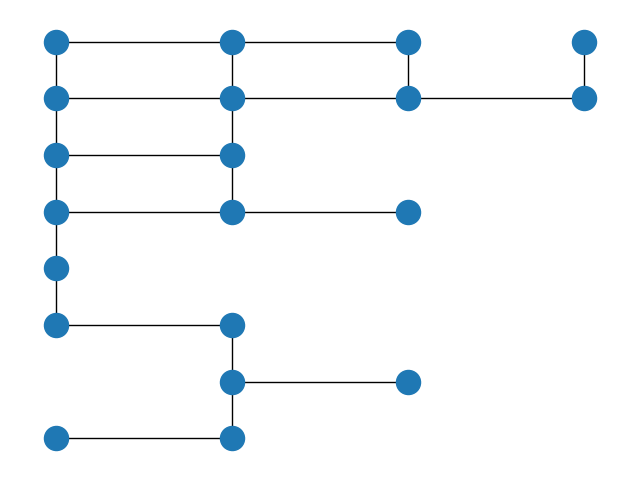
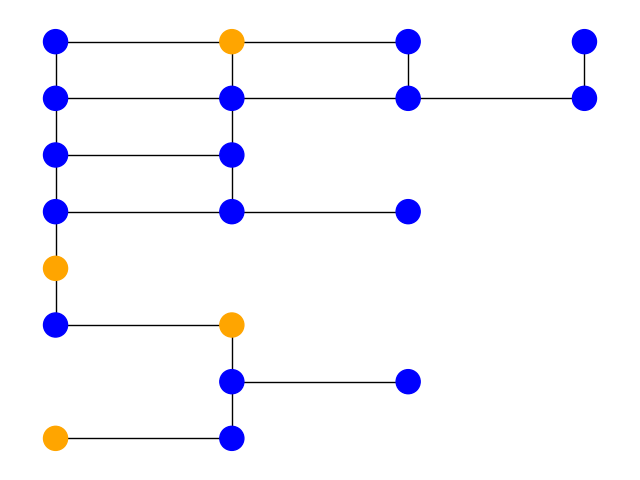
add keys to maps

diff --git a/main.py b/main.py
@@ -8,16 +8,22 @@ with open("zelda1.nes", "rb") as f:
 
     for level in range(1,10):
         G = nx.Graph()
+        color_list = []
         for room in d.data[level].values():
+            # print(room)
             coord = (room['col'],room['row'])
+            node_color = "blue"
+            if room["item_info"] == "D Key" or room["item_info"] == "Key":
+                node_color = "orange"
             G.add_node(coord,pos=coord,east=room["east.wall_type"],north=room["north.wall_type"])
+            color_list += [node_color]
         for v in G.nodes():
             DOORS = ["Door", "Locked Door", "Shutter Door", "Bomb Hole"]
             if G.nodes[v]["east"] in DOORS:
                 G.add_edge(v,(v[0]+1,v[1]))
             if G.nodes[v]["north"] in DOORS:
                 G.add_edge(v,(v[0],v[1]+1))
-        nx.draw(G,pos={v:v for v in G.nodes()})
+        nx.draw(G,pos={v:v for v in G.nodes()}, node_color=color_list)
         plt.savefig(f"level{level}.png", format="PNG")
         plt.clf()
 
